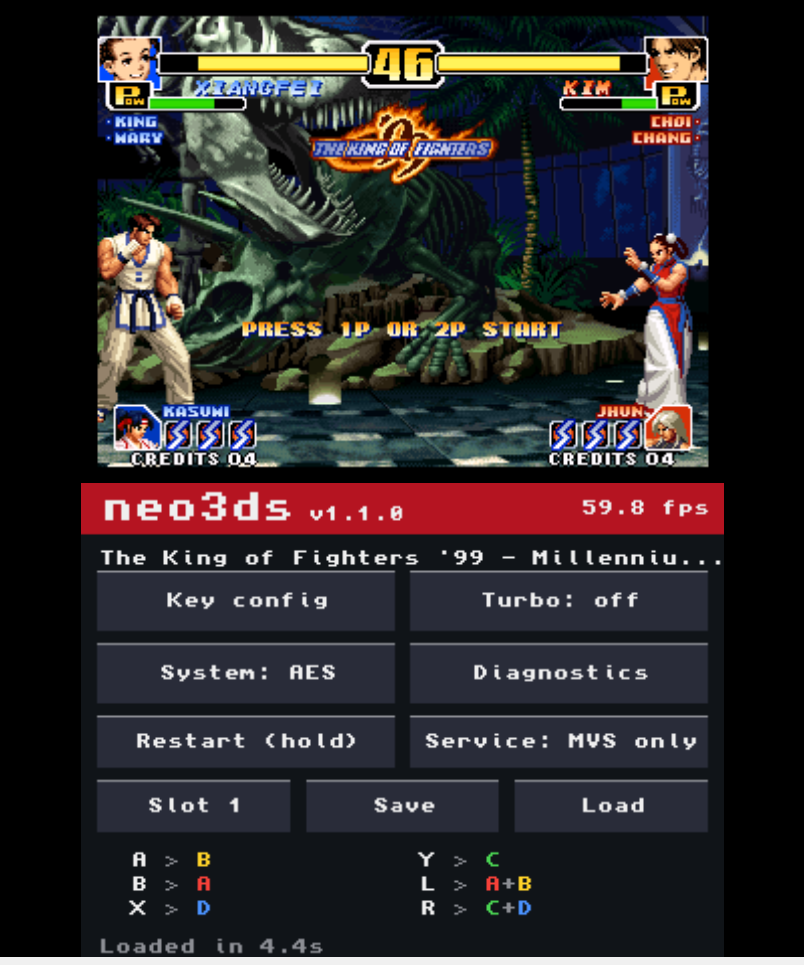
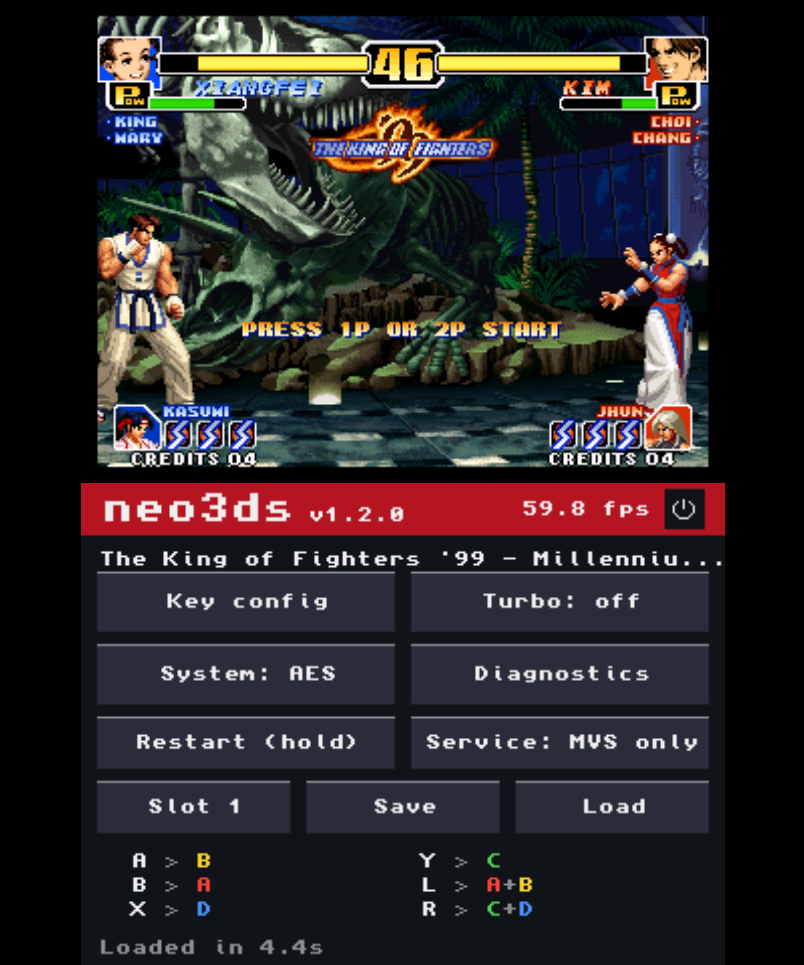
:bookmark: Release: 1.2.0 (버전, README 특징·1.2.0 UI 스크린샷, 버전 변경 시 웹 변환기 재배포) (#67)
- converter/Directory.Build.props <Version> 1.2.0
- README 한·영 특징 목록에 풀스크린·아래 화면 끄기·띠 렌더링·Linux/macOS 변환기
- 스크린샷 4장(기본·연사·키 설정·진단)의 아래 화면을 1.2.0 UI로 교체 (위 화면은 그대로)
- pages.yml: Directory.Build.props 변경도 배포 (version.js가 여기서 생성됨)

관련 이슈 #66

diff --git a/README.md b/README.md
@@ -22,9 +22,13 @@ PC에서 네오지오 롬(zip)을 넣으면, 에뮬레이터가 들어 있는 3D
 - **서비스 메뉴와 백업 RAM (1.1.0)**: 아케이드(MVS) 바이오스의 설정 메뉴를 열 수 있고, 기판에 저장되는 설정·하이스코어가 SD 카드에 남습니다.
 - **지역 선택 (1.1.0)**: 유럽·아시아 / 일본 / 미국. 일본으로 만들면 메탈슬러그의 피 표현 같은 일본판 내용이 나옵니다.
 - **여러 게임 한 번에 변환 (1.1.0)**: zip 여러 개를 넣으면 차례로 변환합니다.
+- **풀스크린 (1.2.0)**: 키 설정의 **Screen**에서 위 화면을 가득 채우도록 늘릴 수 있습니다. 게임별로 저장됩니다.
+- **아래 화면 끄기 (1.2.0)**: 아래 화면 오른쪽 위의 **⏻**로 백라이트를 끕니다. 아래 화면을 터치하면 다시 켜집니다.
+- **더 빠른 그리기 (1.2.0)**: 화면을 띠 단위로 캐시 안에서 그리고 두 코어가 나눠 그려서, 풀스크린과 무거운 장면(메탈슬러그 3 등)의 프레임 드랍이 줄었습니다.
+- **Linux·macOS 오프라인 변환기 (1.2.0)**: Windows에 더해 Linux x64와 macOS(Apple Silicon)용 명령줄 변환기를 받을 수 있습니다.
 - **빠른 실행과 종료**: 3DS 기본 메모리 모드(64MB)로 돌아가서, 켜고 끌 때 시스템 재로딩이 없습니다.
 - **MAME 롬셋 그대로 사용**: MAME 롬셋 282종을 인식하고, 그중 242종을 변환할 수 있습니다. 암호화된 후기 게임(KOF99, 가로우, 메탈슬러그 3~5, KOF2000~2003, SVC Chaos 등)은 변환할 때 해독합니다.
-- **아래 화면 GUI**: 키 설정, 연사, 시스템(AES/MVS), 진단, 재시작, 서비스 메뉴, 퀵세이브를 터치 버튼으로 다룹니다. 지금 키 배치는 네오지오 버튼 색으로 보여 줍니다.
+- **아래 화면 GUI**: 키 설정, 연사, 시스템(AES/MVS), 진단, 재시작, 서비스 메뉴, 퀵세이브, 화면 끄기를 터치 버튼으로 다룹니다. 지금 키 배치는 네오지오 버튼 색으로 보여 줍니다.
 - **키 설정**: 버튼마다 네오지오 버튼이나 동시 누르기(A+B 등)를 지정하고, 게임별로 저장합니다.
 - **연사(매크로)**: R + 버튼으로 켜고 끕니다. 초당 20회입니다.
 - **재시작**: SELECT + START를 1초 누르면 게임을 처음부터 다시 시작합니다.

diff --git a/README.en.md b/README.en.md
@@ -20,9 +20,13 @@ Each game gets its own HOME menu icon and starts straight away. New 3DS models r
 - **Service menu and backup RAM (1.1.0)**: open the arcade (MVS) BIOS settings menu; settings and high scores the board saves are kept on the SD card.
 - **Region (1.1.0)**: Europe/Asia, Japan or USA. Japan gives the Japanese versions' content, such as the blood in Metal Slug.
 - **Batch conversion (1.1.0)**: drop several zips and they are converted one after the other.
+- **Full screen (1.2.0)**: **Screen** in the key config stretches the picture to fill the top screen, saved per game.
+- **Bottom screen off (1.2.0)**: **⏻** at the bottom screen's top right turns its backlight off; touch the bottom screen to turn it back on.
+- **Faster drawing (1.2.0)**: the picture is drawn in bands inside the cache, shared by both cores, so full screen and busy scenes (Metal Slug 3...) drop fewer frames.
+- **Linux and macOS offline converter (1.2.0)**: besides Windows, command-line converters for Linux x64 and macOS (Apple Silicon).
 - **Fast start and exit**: runs in the 3DS's default 64 MB memory mode, so there is no system reload when a game starts or quits.
 - **Plain MAME romsets**: knows all 282 MAME Neo Geo romsets and converts 242 of them. Encrypted later games (KOF99, Garou, Metal Slug 3-5, KOF2000-2003, SVC Chaos...) are decrypted during conversion.
-- **Bottom screen GUI**: touch buttons for key config, turbo, system (AES/MVS), diagnostics, restart, the service menu and quick save, with the current key layout in the Neo Geo button colours.
+- **Bottom screen GUI**: touch buttons for key config, turbo, system (AES/MVS), diagnostics, restart, the service menu, quick save and screen off, with the current key layout in the Neo Geo button colours.
 - **Key config**: map each button to a Neo Geo button or a combination (A+B...), saved per game.
 - **Turbo (rapid fire)**: R + a face button toggles it; 20 presses a second.
 - **Restart**: hold SELECT + START for a second to restart the game.
